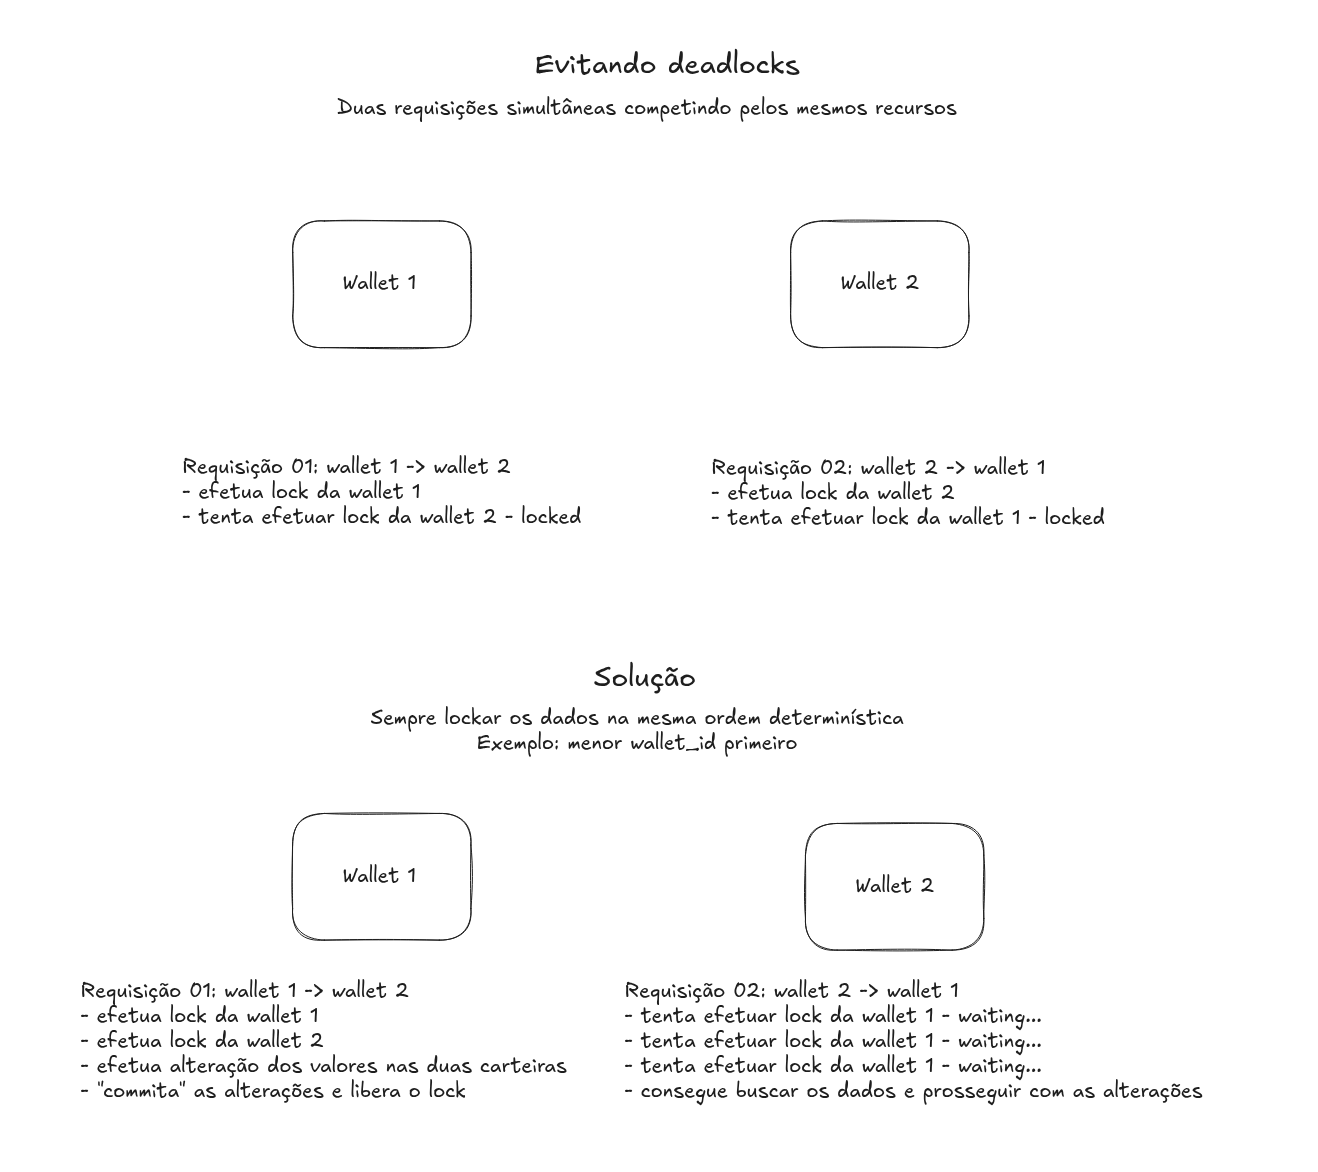
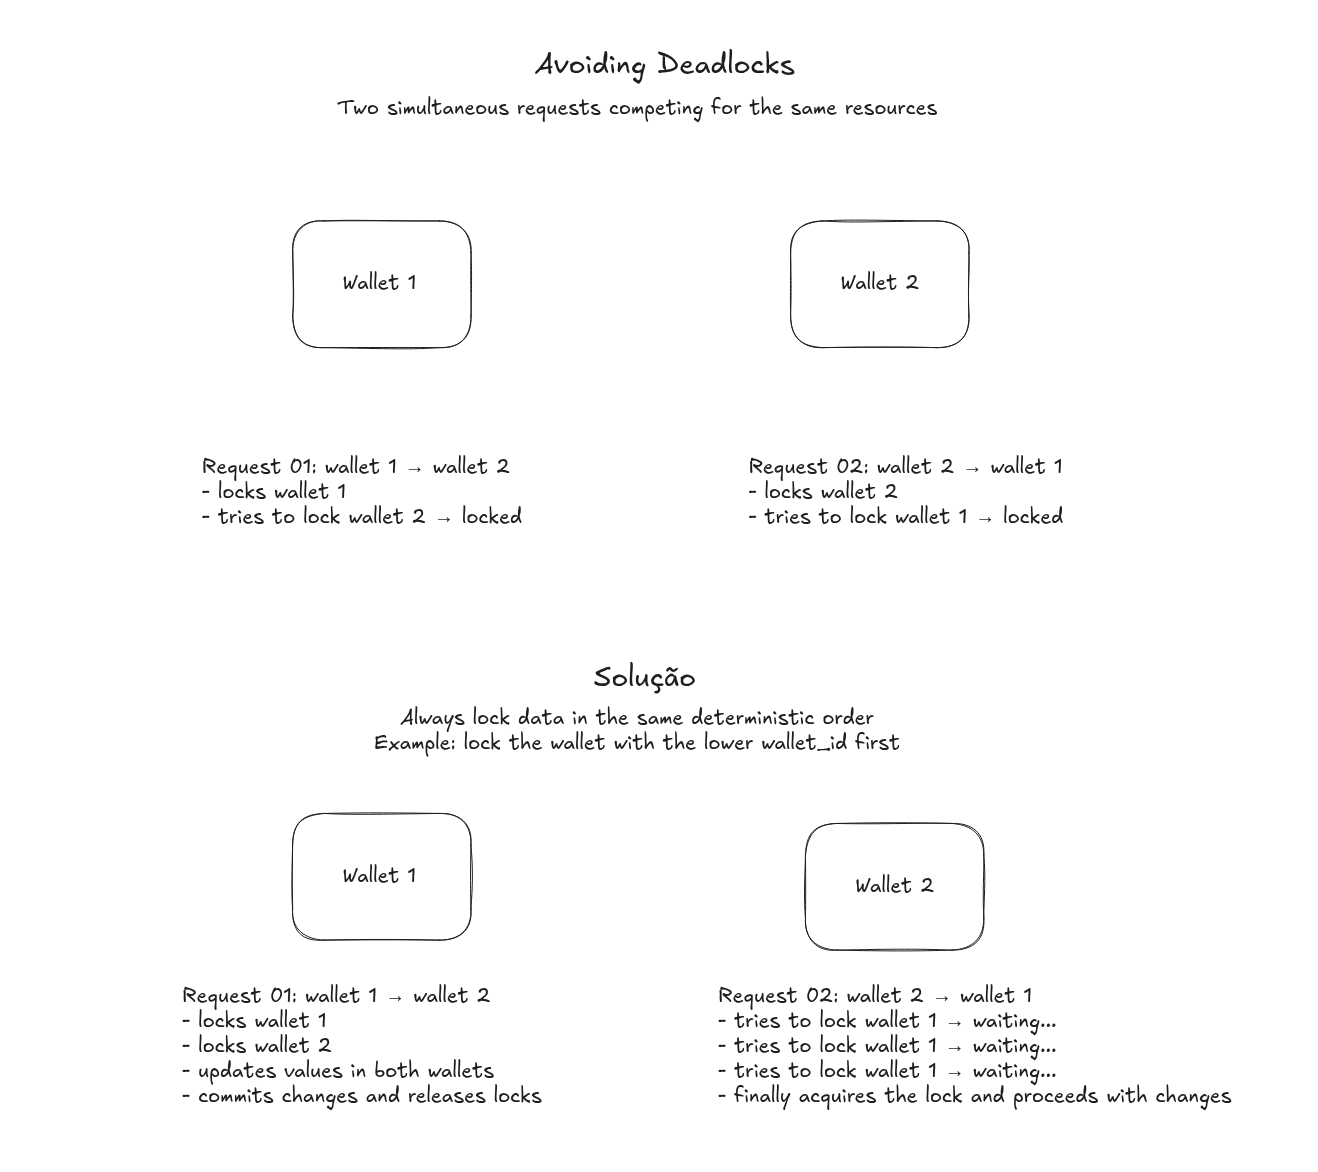
chore: translate README to English and fix outdated sections

diff --git a/README.md b/README.md
@@ -1,85 +1,85 @@
-# API de transações financeiras (financial-transactions-api)
+# Financial Transactions API
 
-## Descrição
+## Overview
 
-**Sistema backend de transações financeiras com foco em concorrência, escalabilidade e alta disponibilidade.**
-Permite depósitos e transferências entre usuários comuns e lojistas, com validações externas, notificações assíncronas, controle transacional rigoroso e suporte à idempotência.
-
----
-
-## Tecnologias Utilizadas
-
--   **Laravel** – Framework PHP para APIs RESTful robustas
--   **Docker** – Containerização e orquestração dos serviços
--   **Nginx** – Proxy reverso e balanceador de carga (least_conn)
--   **MySQL** – Banco relacional com suporte a transações ACID
--   **Redis** – Cache e filas de jobs em memória
--   **Laravel Horizon** – Monitoramento de filas e processamento assíncrono
+**A backend system for handling financial transactions, designed for concurrency, scalability, and high availability.** Supports deposits and transfers between regular users and merchants, featuring external validations, asynchronous notifications, strict transactional control, and idempotency support.
 
 ---
 
-## Arquitetura
+## Tech Stack
 
-### Visão Geral
+-   **Laravel** – PHP framework for building robust RESTful APIs
+-   **Docker** – Service containerization and orchestration
+-   **Nginx** – Reverse proxy and load balancer (least_conn algorithm)
+-   **MySQL** – Relational database with ACID transaction support
+-   **Redis** – In-memory caching and job queueing
+-   **Laravel Horizon** – Monitoring for job queues and async processing
+
+---
+
+## Architecture
+
+### High-Level Diagram
 
 ![image.png](./docs/images/image.png)
 
--   **Load balancer (Nginx)** - Distribui as requisições entre as múltiplas instâncias
--   **Múltiplas instâncias de aplicação** - 2+ instâncias Laravel rodando simultaneamente
--   **Banco de dados MySQL** - Controle de concorrência com Pessimistic Lock
--   **Cache e filas com Redis** - Cache de consultas frequentes e armazenamento de filas de jobs
--   **Sistema de filas (Laravel Horizon)** - Processamento assíncrono de notificações e logs
+-   **Load balancer (Nginx)** - Distributes incoming requests across app instances
+-   **Multiple Laravel App Instances** - Ensures horizontal scalability
+-   **MySQL Database** - Manages data integrity with pessimistic locking
+-   **Redis** - Used for caching, queueing and idempotency key
+-   **Queue System (Horizon)** - Handles asynchronous jobs and background processing
 
-### Modelagem de dados no banco
+### Database Modeling
 
 ![image.png](./docs/images/image%201.png)
 
-### Tratamento de Deadlocks
+### Deadlock Handling Strategy
 
 ![image.png](./docs/images/image%202.png)
 
-O sistema implementa ordenação determinística dos locks para evitar deadlocks. Sempre faz lock dos recursos na mesma ordem, independente da direção da transação.
+The system uses **deterministic locking** order to avoid deadlocks. Resources are always locked in the same order, regardless of transaction direction.
 
-Exemplo: Para transferências entre Wallet 1 e Wallet 2, sempre faz lock primeiro da wallet com menor ID. Isso garante que apenas uma transação por vez tenha acesso aos recursos, eliminando completamente a de deadlock.
-
----
-
-## Funcionalidades Implementadas
-
-### Depósito
-
--   Camadas organizadas: Controller → DTO → Service
--   Manipulação de valores em centavos (inteiros) para evitar erros com ponto flutuante
--   Suporte a lock pessimista (via feature flag)
--   Scripts de simulação para concorrência
-
-### Transferência
-
--   Validação de saldo e autorização via mock externo (`/authorize`)
--   Manipulação monetária segura (inteiros) com conversão automática
--   Transação ACID com rollback em inconsistências
--   Lock pessimista por ordenação determinística
--   Idempotência ativa para evitar duplicidade em retries
--   Suporte a testes de concorrência e deadlock com scripts dedicados
-
-### Notificações asíncronas
-
--   Envio de POST para mock externo (`/notify`)
--   Executadas em background com retry/backoff automático
--   Lógica desacoplada do core da aplicação
-
-### Logging assíncrono
-
--   Middleware dedicado captura requests/responses
--   Logs processados via filas, sem impacto na latência da API
+For example, when transferring between Wallet 1 and Wallet 2, the wallet with the lowest ID is always locked first — ensuring only one transaction accesses those records at a time, effectively eliminating deadlocks.
 
 ---
 
-## Documentação da API
+## Features
+
+### Deposits
+
+-   Clean layering: Controller → DTO → Service
+-   Monetary values handled in cents (integers) to avoid floating-point issues
+-   Optional pessimistic locking via feature flag
+-   Built-in idempotency to prevent duplicate execution on retries
+-   Includes simulation scripts for concurrent operations
+
+### Transfers
+
+-   Balance validation and external authorization via mocked (`/authorize`)
+-   Safe integer-based money handling with automatic conversion
+-   Fully ACID-compliant transaction with rollback support
+-   Deterministic resource locking for concurrency control
+-   Built-in idempotency to prevent duplicate execution on retries
+-   Scripts provided for testing concurrency and deadlocks
+
+### Asynchronous Notifications
+
+-   Sends POST requests to external mock (`/notify`)
+-   Executed in background with retry and exponential backoff
+-   Decoupled from core business logic
+
+### Asynchronous Logging
+
+-   Dedicated middleware captures requests and responses
+-   Logs are processed via job queues to avoid affecting response time
+
+---
+
+## API Documentation
 
 ### POST api/transactions/deposit
 
-Realiza depósito na carteira do usuário
+Deposits funds into a user wallet.
 
 **Request**
 
@@ -112,7 +112,7 @@ Realiza depósito na carteira do usuário
 
 ### POST api/transactions/transfer
 
-Realiza transferências entre usuários
+Transfers funds between users.
 
 **Request**
 
@@ -146,10 +146,10 @@ Realiza transferências entre usuários
 
 ---
 
-## Testes
+## Testing
 
--   **Cobertura:** Unitários, integração e concorrência
--   **Scripts incluídos:**
+-   **Coverage:** Integration and concurrency tests via scripts
+-   **Included scripts:**
     -   `1_concurrent_deposit_test.sh`
     -   `2_concurrent_transfer_test.sh`
     -   `3_concurrent_transfer_deadlocking_test.sh`
@@ -157,79 +157,123 @@ Realiza transferências entre usuários
 
 ---
 
-## Qualidade de Código
+## Code Quality
 
--   **Pint (PSR-12):** Lint e fix automático
--   **PHPStan (Larastan):** Análise estática de nível elevado
--   **PHP Mess Detector:** Detecção de _code smells_ e complexidade excessiva
--   **Hooks de pré-commit:** Executam Pint automaticamente
+-   **Pint (PSR-12):** Auto-formatting and linting
+-   **PHPStan (Larastan):** Static analysis with strict levels
+-   **PHP Mess Detector:** Detects code smells and complexity
+-   **Hooks de pré-commit:** Automatically run Pint before commits
 
-### Comandos úteis
+### Common Commands
 
 ```bash
-# Testes
+# Runt tests
 docker compose exec app1 php artisan test
 docker compose exec app1 php artisan test --coverage
 
-# Lint e fix
+# Linting
 docker compose exec app1 composer run lint
 docker compose exec app1 composer run fix
 
-# Análise estática e code smells
+# Static analysis and code smells
 docker compose exec app1 composer run stan
 docker compose exec app1 composer run md
 ```
 
-## Documentação e Monitoramento
+## Documentation & Monitoring
 
 -   Swagger UI: [`localhost/api/documentation`](http://localhost/api/documentation)
--   Horizon (monitoramento de filas): [`localhost/horizon`](http://localhost/horizon)
--   Visualizador de logs: [`localhost/log-viewer`](http://localhost/log-viewer)
+-   Horizon Dashboard: [`localhost/horizon`](http://localhost/horizon)
+-   Log Viewer: [`localhost/log-viewer`](http://localhost/log-viewer)
 
 ```bash
-# Gerar documentação Swagger
+# Generate Swagger docs
 docker compose exec app1 composer run swagger
 
-# Publicar visualizador de logs
+# Publish log viewer assets
 docker compose exec app1 composer run log-viewer
 
 ```
 
 ---
 
-## Instalação
+## Installation
 
-### Pré-requisitos
+### Prerequisites
 
--   Docker e Docker Compose
--   Git
+-   [Docker](https://www.docker.com/)
+-   [Docker Compose](https://docs.docker.com/compose/)
+-   [Git](https://git-scm.com/)
 
-### Passos
+### Steps
+
+Clone this repository:
 
 ```bash
 git clone https://github.com/seu-usuario/simplebank.git
 cd simplebank
+```
 
-# Iniciar containers
+Copy the example .env file:
+
+```bash
+cp .env.example .env
+```
+
+Edit the .env file. Default values:
+
+```bash
+# MySQL
+DB_CONNECTION=mysql
+DB_HOST=mysql
+DB_PORT=3306
+DB_DATABASE=simplebank
+DB_USERNAME=user
+DB_PASSWORD=password
+
+# Redis
+CACHE_STORE=redis
+REDIS_CLIENT=phpredis
+REDIS_HOST=redis
+REDIS_PASSWORD=null
+REDIS_PORT=6379
+
+# Concurrency flags
+USE_PESSIMISTIC_LOCK=true
+AVOID_DEADLOCK=true
+
+# External services
+TRANSACTION_AUTHORIZER_SERVICE_URL="https://util.devi.tools/api/v2"
+NOTIFICATION_SERVICE_URL="https://util.devi.tools/api/v1"
+```
+
+Start containers
+
+```
 docker compose up -d
+```
 
-# (Opcional) acompanhar logs
+(Optional) Tail logs
+
+```
 docker compose logs -f
-
 ```
 
 ---
 
 ## Melhorias Futuras
 
--   Implementação da camada de repositórios com cache
--   Autenticação e controle de acesso
--   Rate limiting por usuário
--   Agendamento de transferências
--   Transações assíncronas com consulta por UUID
--   Integração com stack de observabilidade (ex: ELK)
--   Testes de carga automatizados com ferramentas especializadas
+-   [ ] Add a repository layer with cache
+-   [ ] Increase unit test coverage across layers
+-   [ ] Improve architecture (Clean, Onion, Hexagonal)
+-   [ ] Scheduled transfers
+-   [ ] Asynchronous transactions with UUID tracking
+-   [ ] Integration with observability stack (Logs, Traces, Telemetry)
+-   [ ] Automated load testing using specialized tools
+-   [ ] Explore NoSQL alternatives for specific use cases
+-   [ ] Improve message queue and broker implementations
 
 ---
 
-Projeto desenvolvido como prova de conceito de uma aplicação financeira simplificada, com foco em boas práticas de backend, confiabilidade transacional e observabilidade.
+This project was developed as a proof of concept for a simplified financial platform.
+It emphasizes backend best practices, transactional reliability, and observability.
